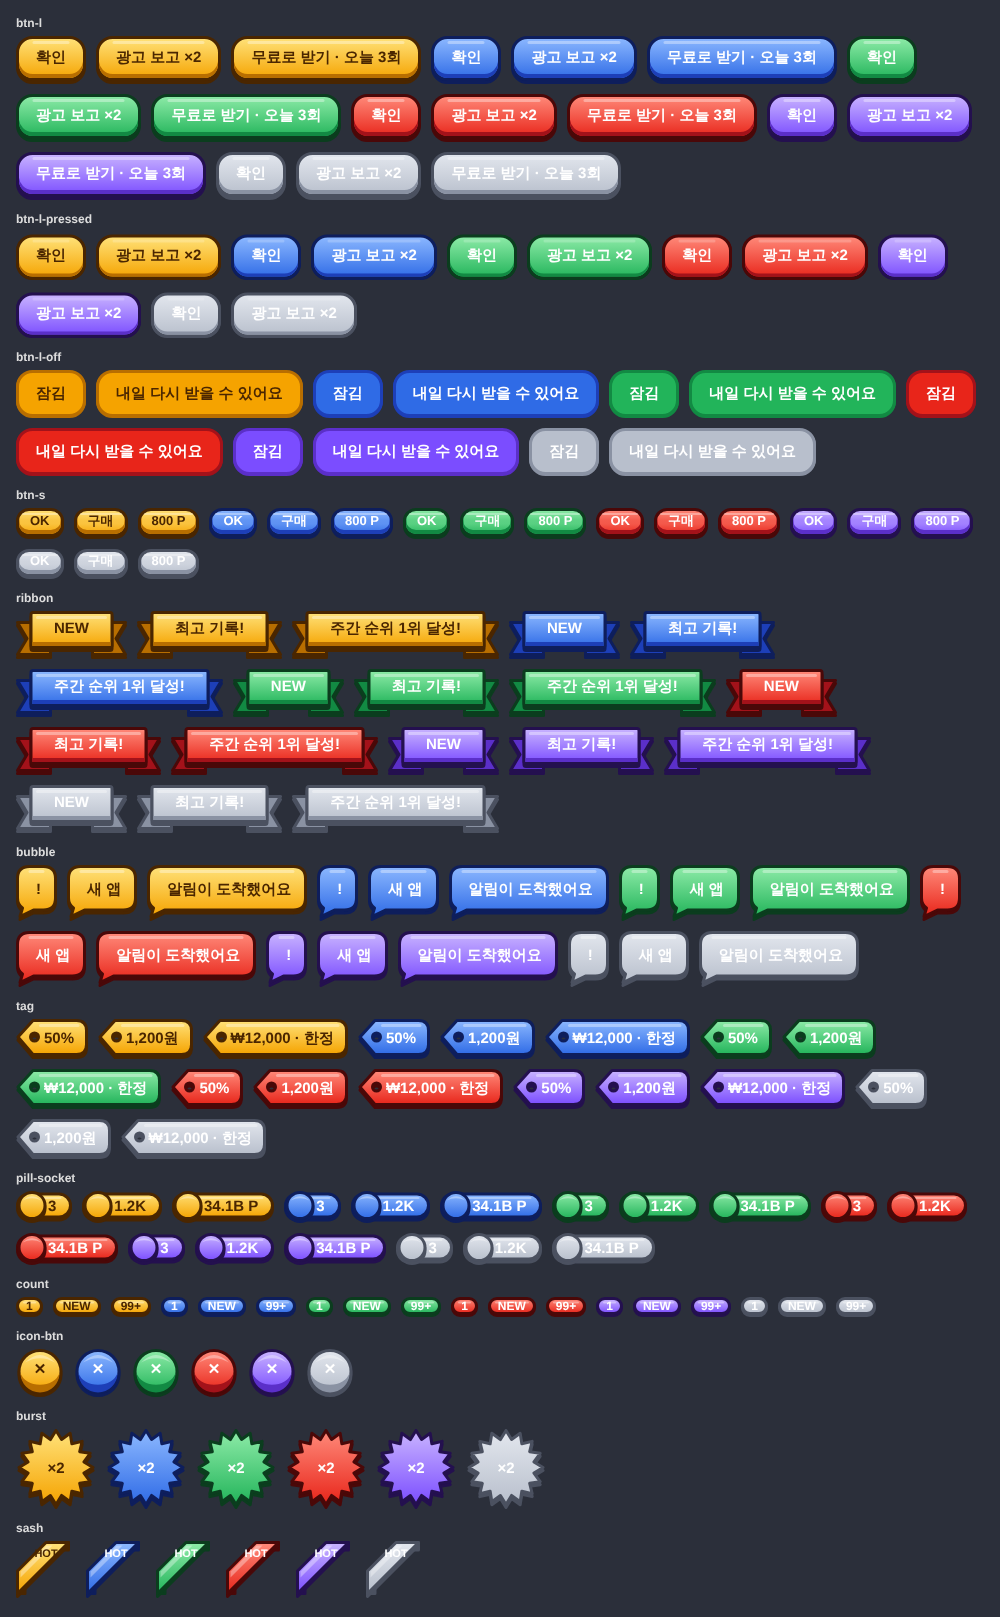
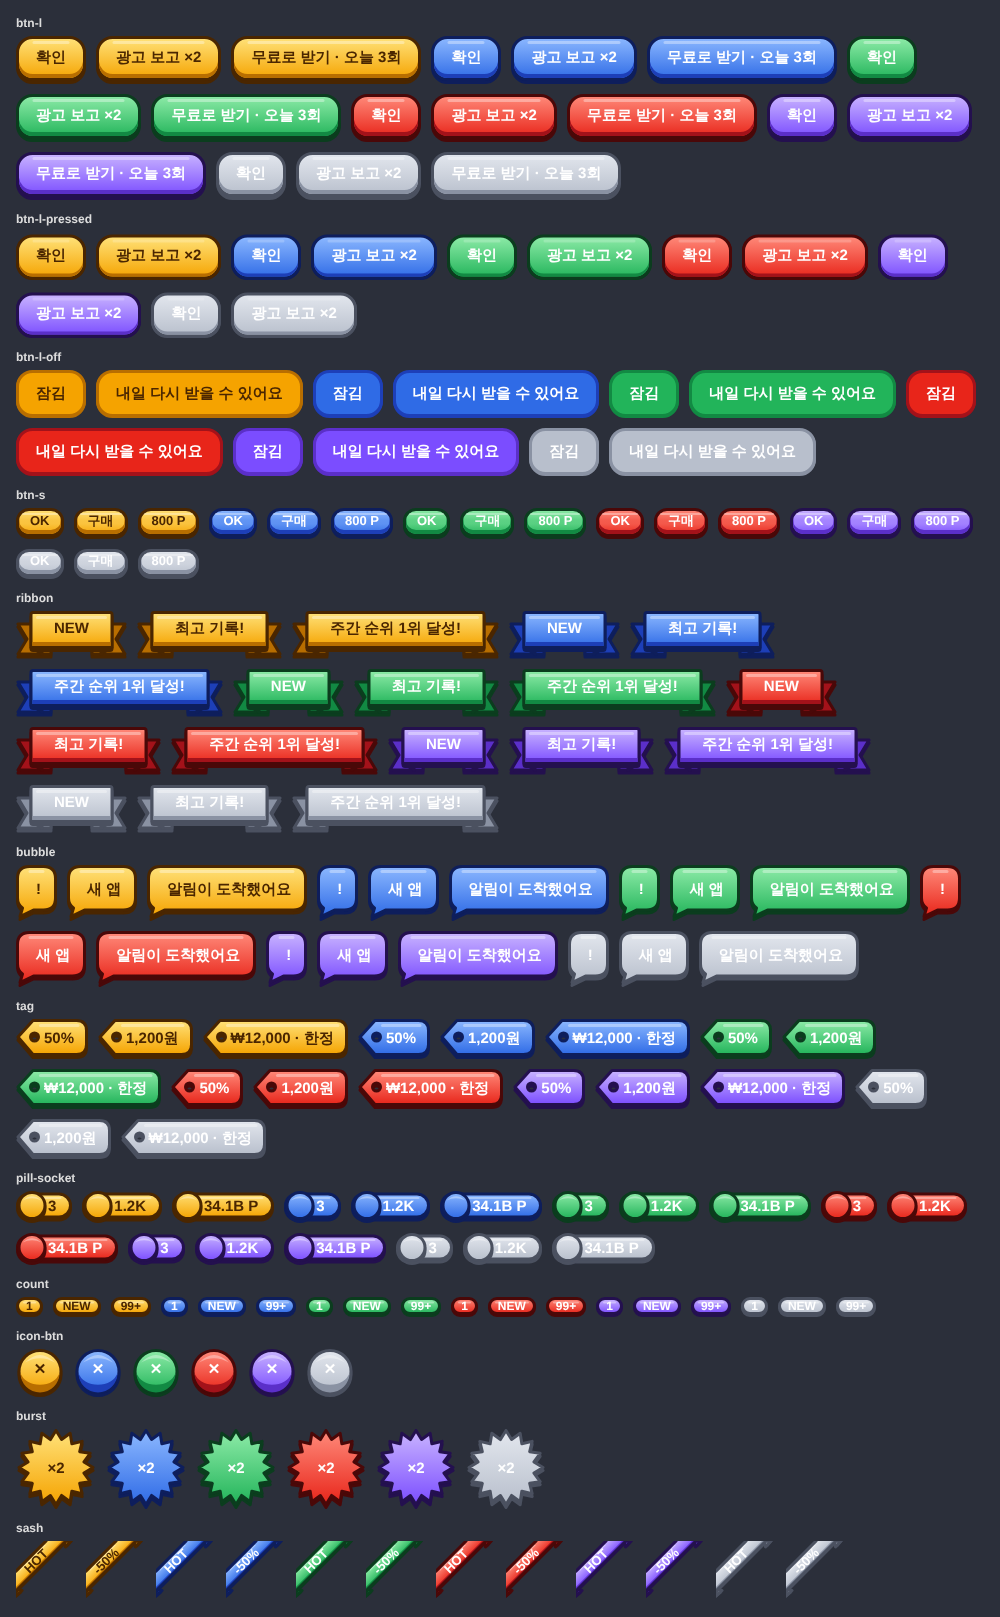
UI frames: draw the corner sash (45-degree band, folds, rotated label centre) and ribbon v2 (tails tucked behind with folds) in-house after the second delivery missed the spec; frames.js places rotated labels on fixed frames; greyscale UI frames are made in-house from now on
Claude-Session: https://claude.ai/code/session_01XZ92NKr2MkdtCzRNMQEQs3

diff --git a/tools/game-page/framestest.js b/tools/game-page/framestest.js
@@ -8,18 +8,18 @@ const FRAMES = JSON.parse(fs.readFileSync(root + '/docs/design/ui-assets/frames/
 const JS = fs.readFileSync(__dirname + '/frames.js', 'utf8');
 const LABELS = { 'btn-l': ['확인', '광고 보고 ×2', '무료로 받기 · 오늘 3회'], 'btn-l-pressed': ['확인', '광고 보고 ×2'], 'btn-l-off': ['잠김', '내일 다시 받을 수 있어요'], 'btn-s': ['OK', '구매', '800 P'],
   ribbon: ['NEW', '최고 기록!', '주간 순위 1위 달성!'], bubble: ['!', '새 앱', '알림이 도착했어요'], tag: ['50%', '1,200원', '₩12,000 · 한정'], 'pill-socket': ['3', '1.2K', '34.1B P'],
-  count: ['1', 'NEW', '99+'], 'icon-btn': ['✕'], burst: ['×2'], sash: ['HOT'] };
+  count: ['1', 'NEW', '99+'], 'icon-btn': ['✕'], burst: ['×2'], sash: ['HOT', '-50%'] };
 (async () => {
   const b = await chromium.launch(); const p = await b.newPage({ viewport: { width: 1000, height: 800 } });
   const font = 'file://' + root + '/app/src/main/assets/game/fonts/pretendard/index.css';
-  const rows = Object.entries(LABELS).map(([id, ls]) => `<h3>${id}</h3><div class="r">${['gold', 'blue', 'green', 'red', 'purple', 'grey'].map(t => ls.map(l => `<b class="fr fr-${id} t-${t}" data-id="${id}">${l}</b>`).join('')).join('')}</div>`).join('');
+  const rows = Object.entries(LABELS).map(([id, ls]) => `<h3>${id}</h3><div class="r">${['gold', 'blue', 'green', 'red', 'purple', 'grey'].map(t => ls.map(l => id === 'sash' ? `<b class="fr fr-sash t-${t}" data-id="sash"><i>${l}</i></b>` : `<b class="fr fr-${id} t-${t}" data-id="${id}">${l}</b>`).join('')).join('')}</div>`).join('');
   await p.setContent(`<html><head><link rel="stylesheet" href="${font}"><style>body{margin:16px;background:#2b2f3a;color:#ddd;font:900 15px Pretendard Variable,Pretendard,sans-serif}h3{font:600 12px sans-serif;margin:12px 0 6px}.r{display:flex;flex-wrap:wrap;gap:10px;align-items:center}
-    .t-gold{color:#4A2600}.fr:not(.t-gold){color:#fff}.fr-count{font-size:12px}.fr-btn-s{font-size:13px}.fr-sash{font-size:11px}</style>
+    .t-gold{color:#4A2600}.fr:not(.t-gold){color:#fff}.fr-count{font-size:12px}.fr-btn-s{font-size:13px}.fr-sash i{font:900 13px Pretendard Variable,sans-serif;font-style:normal}.t-gold i{color:#4A2600}.fr-sash:not(.t-gold) i{color:#fff}.fr-sash{--s:.7}</style>
     <script>${JS}; const s = document.createElement('style'); s.textContent = frameCSS(${JSON.stringify(FRAMES)}, FRAME_TINTS); document.head.appendChild(s);</script></head><body>${rows}</body></html>`);
   await p.evaluate(() => document.fonts.ready); await p.waitForTimeout(300);
   await p.screenshot({ path: out + '/frames.png', fullPage: true });
   // label ink centre vs face centre, using a range over the text node
-  const off = await p.evaluate(F => [...document.querySelectorAll('.fr.t-gold')].map(el => {
+  const off = await p.evaluate(F => [...document.querySelectorAll('.fr.t-gold:not(.fr-sash)')].map(el => {
     const f = F[el.dataset.id], r = el.getBoundingClientRect(), rg = document.createRange(); rg.selectNodeContents(el); const t = rg.getBoundingClientRect();
     const scale = r.height / f.h, face = r.top + f.face * scale, ink = t.top + t.height / 2;
     return [el.dataset.id, el.textContent, +(ink - face).toFixed(1)]; }), FRAMES);

diff --git a/tools/game-page/frames.js b/tools/game-page/frames.js
@@ -14,7 +14,9 @@ function frameCSS(FRAMES, TINTS) {
       css += `${k}{height:calc(${f.h}px*var(--s));min-width:calc(${L + R}px*var(--s));border-width:calc(${T}px*var(--s)) calc(${R}px*var(--s)) calc(${B}px*var(--s)) calc(${L}px*var(--s));padding:0 0 calc(${lift}px*var(--s))}\n`;
       for (const [t, ramp] of Object.entries(TINTS)) css += `${k}.t-${t}{border-image:${url(tint(f.svg, ramp))} ${T} ${R} ${B} ${L} fill stretch}\n`;
     } else {
-      css += `${k}{width:calc(${f.w}px*var(--s));height:calc(${f.h}px*var(--s));border:0;background-size:100% 100%;padding:0 0 calc(${Math.max(0, f.h / 2 - f.face) * 2}px*var(--s))}\n`;
+      css += f.label
+        ? `${k}{width:calc(${f.w}px*var(--s));height:calc(${f.h}px*var(--s));border:0;background-size:100% 100%;position:relative;color:transparent}${k}>*{position:absolute;left:calc(${f.label.x}px*var(--s));top:calc(${f.label.y}px*var(--s));transform:translate(-50%,-50%) rotate(${f.label.rotate}deg)}\n`
+        : `${k}{width:calc(${f.w}px*var(--s));height:calc(${f.h}px*var(--s));border:0;background-size:100% 100%;padding:0 0 calc(${Math.max(0, f.h / 2 - f.face) * 2}px*var(--s))}\n`;
       for (const [t, ramp] of Object.entries(TINTS)) css += `${k}.t-${t}{background-image:${url(tint(f.svg, ramp))}}\n`;
     }
   }

diff --git a/docs/design/ui-commission.md b/docs/design/ui-commission.md
@@ -178,3 +178,4 @@
 - **sash 다시 받기**: 첫 납품은 대각선 쐐기 하나뿐이라 띠로 읽히지 않고 글자 자리도 없었다. 45° 띠(폭 28, 중심선 (0,80)→(80,0)), 양 끝이 카드 가장자리 뒤로 접히는 삼각 날개, 글자 중심 (40,40) 자리를 비워 두도록 좌표로 지정했다.
 - **ribbon v2**: 크기·늘림 경계·앞 띠 위치는 그대로, 띠가 꼬리로 꺾이는 곳에 접힘 음영 삼각형을 넣는다.
 - 공통: 루트 `<svg>`에 viewBox와 같은 `width`·`height`를 넣는다(첫 납품은 빠져서 들여올 때 보정했다).
+- **결과(11-28)**: 두 번째 납품도 모서리 띠가 쐐기 모양이고 리본 접힘이 띠 안쪽을 찔러서 받지 않았다. 두 개는 화면 세션이 좌표대로 직접 그렸다(`frames/sash.svg`, `frames/ribbon.svg`). **앞으로 회색조 UI 틀은 발주하지 않고 화면 세션이 코드로 만든다.** 그림·스티커류만 발주한다.
